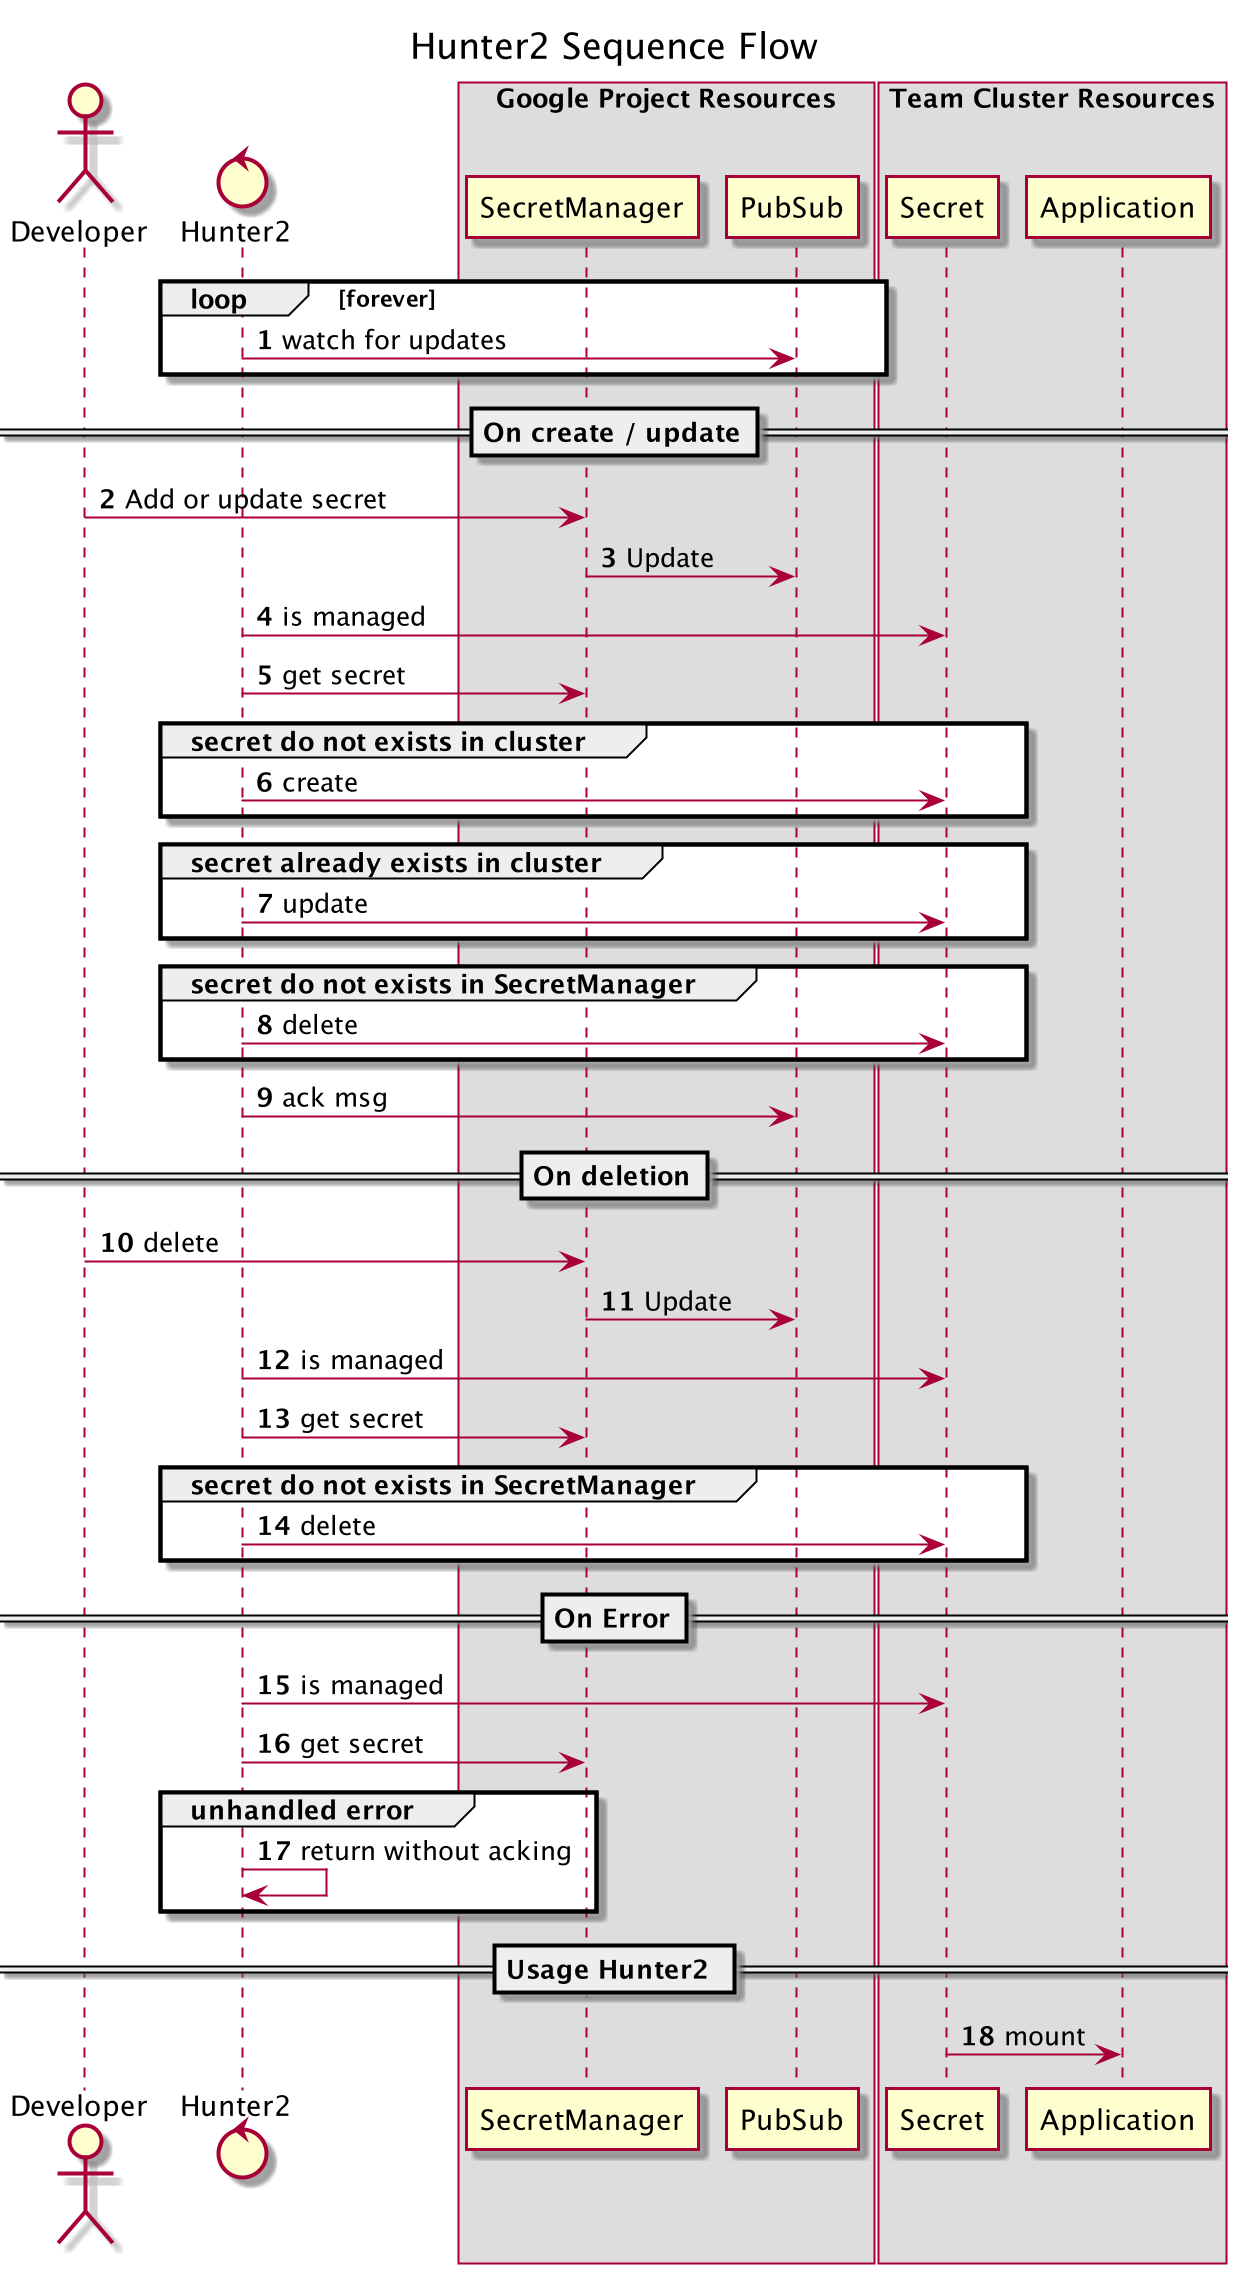
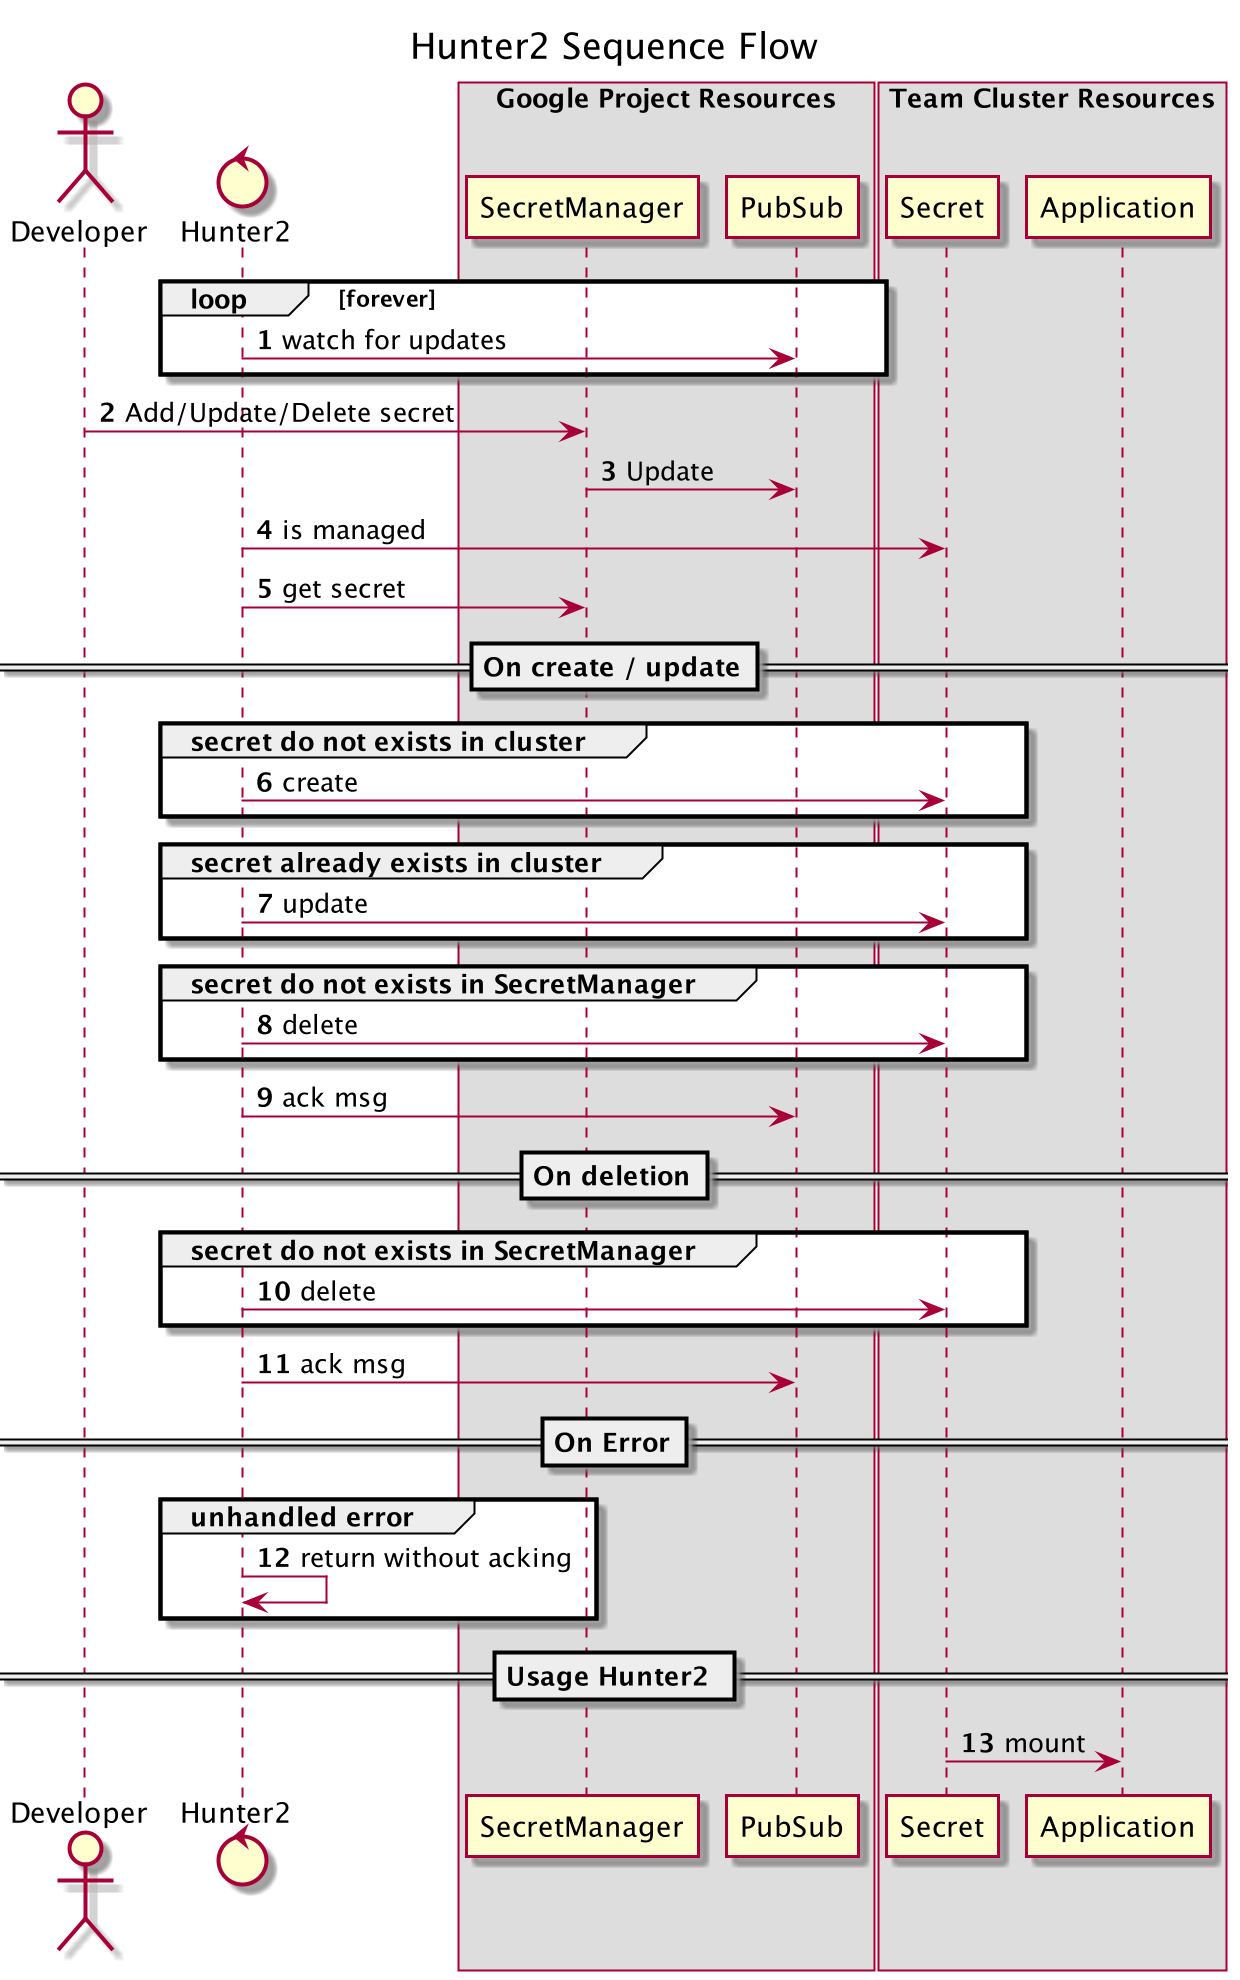
fix: diagram to be more descriptive and simple.

diff --git a/README.md b/README.md
@@ -20,3 +20,9 @@ HUNTER2_NAMESPACE=default
 HUNTER2_KUBECONFIG_PATH=$KUBECONFIG
 GOOGLE_APPLICATION_CREDENTIALS=/Users/<user>/.config/gcloud/application_default_credentials.json
 ```
+
+### Run
+
+```shell script
+make local
+```
